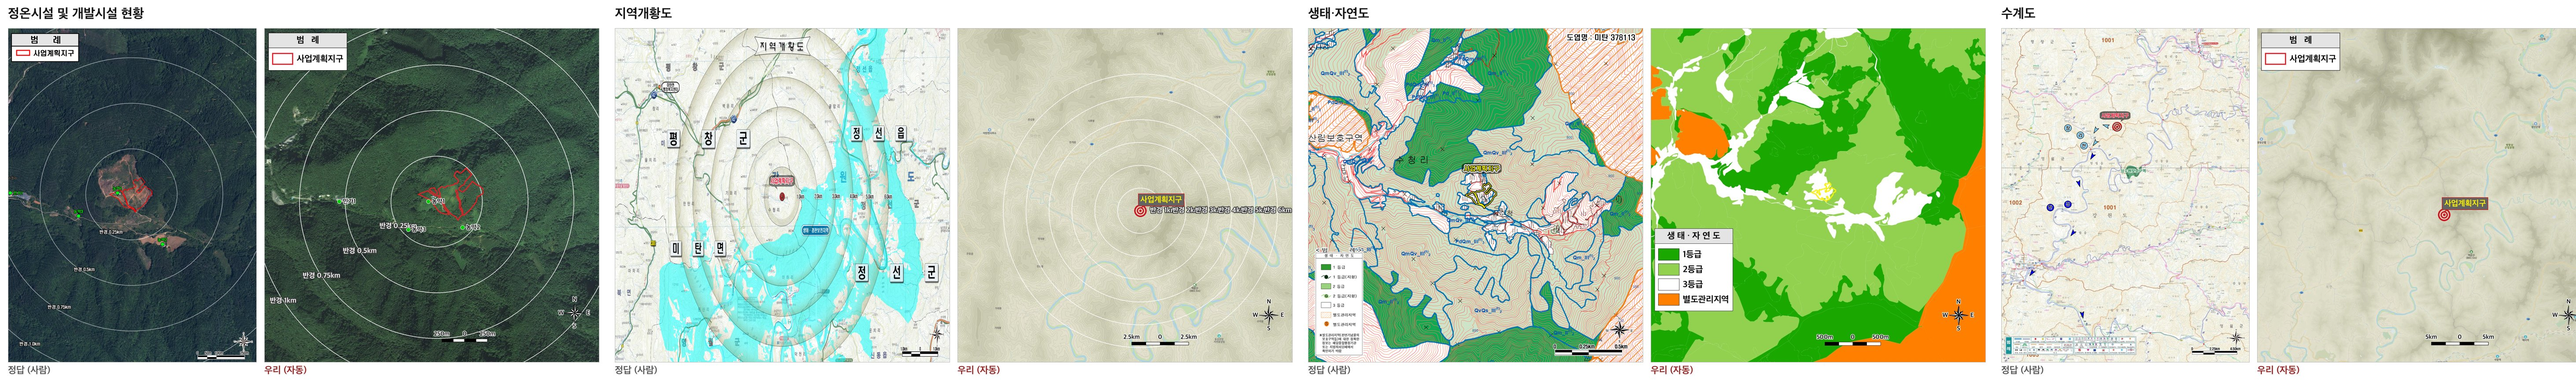
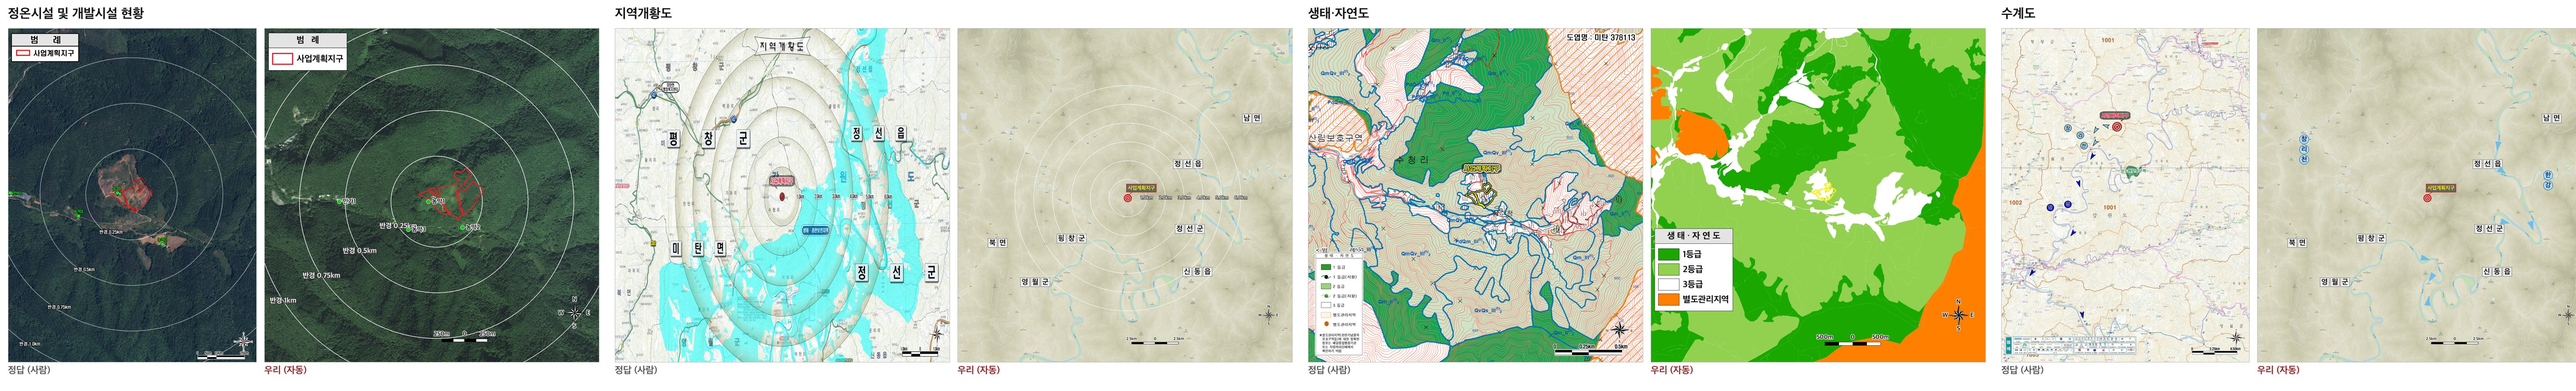
날짜별 작업 이력을 걷어내고 비교 이미지를 최신으로
"2026-08-20 에 풀린 것 — …" 은 날짜별 이력이고, 바로 위 표에 각 삽도의 현재 상태가
이미 있어 중복이기도 했다.

4-5 절도 같은 정리
- 제목의 (2026-08-20) 제거
- "그동안 완전 자동이라 적은 것은 코드가 돈다는 뜻이었지…" →
  "코드가 도는 것과 정답과 같은 것은 다르다" 로. 자기 이력이 아니라 원칙으로 적는다
- 상태 표를 뺐다 — 맨 위 요약표와 겹친다. 이 절은 무엇이 달랐고 왜 그랬는지만 다룬다

4종 비교 이미지가 낡아 있었다 (수계도가 빈 그림, 지역개황도에 행정구역명 없음).
각주로 "대조 시점의 것" 이라 달아 두는 대신 **다시 만들었다** — 문서에 낡은 그림을
두고 설명으로 때우면 다음에 볼 때 또 헷갈린다.

diff --git a/docs/20260819_삽도_자동화.md b/docs/20260819_삽도_자동화.md
@@ -38,10 +38,6 @@
 **지역개황이 만드는 5종 중 — 정답에 근접 2 · 거의 2 · 절반 1.**
 나머지 1종(식생보전등급도)은 다른 파트 산출물이다.
 
-2026-08-20 에 풀린 것 — **위성사진 출처 대체**(약관 문제가 사라졌다) ·
-**사업지 경계 폴리곤**(설계도서가 필요 없었다) · **수계흐름모식도 입력** ·
-**생태·자연도 취득과 등급 판정** · **행정구역명 라벨**.
-
 ---
 
 ## 1. 지역개황의 삽도는 어떻게 구성되나
@@ -595,19 +591,13 @@ python engine/parcels.py cases/…/input/사업개요.txt \
 필지별로 선을 긋지 않고 **한 덩어리로 합쳐 바깥 선만** 그린다. 필지마다 그으면 안쪽에
 격자가 생겨 실제와 달라진다. 기하 라이브러리 없이 마스크 차분으로 합쳤다.
 
-### 4-5. 같은 사업으로 4종을 정답과 맞춰 봤다 ★ (2026-08-20)
+### 4-5. 같은 사업으로 4종을 정답과 맞춰 봤다 ★
 
-그동안 "완전 자동"이라 적은 것은 **코드가 돈다**는 뜻이었지 정답과 같다는 뜻이 아니었다.
-NAS 에서 평창 정답 삽도 4종을 받아 **같은 사업으로 우리 것을 만들어** 대조했다.
+**코드가 도는 것과 정답과 같은 것은 다르다.** NAS 에서 평창 정답 삽도 4종을 받아
+같은 사업으로 우리 것을 만들어 대조했다. 상태는 맨 위 표에 있고, 여기서는
+**무엇이 달랐고 왜 그랬는지**를 적는다.
 
 ![삽도 4종 정답 대비](img/20260820_삽도4종_정답_vs_자동.jpg)
-
-| 삽도 | 결과 | 무엇이 달랐나 |
-|---|---|---|
-| 정온시설 | **근접** | 반경원·경계·초록 마커 위치가 다 맞는다 |
-| 지역개황도 | 구조 일치 | 배경 지명이 흐렸다 → 아래 |
-| 생태·자연도 | 절반 | 정답은 **지형도 위 반투명**이라 등고선·군락기호가 더 있다 |
-| 수계도 | 미완 | 화살표·하천명·구역 채색이 전부 없다 |
 
 **배경이 밋밋했던 진짜 원인은 줌이 아니라 삽도 크기였다.**
 정답 지역개황도가 **4,449px** 인데 우리는 1,792px 로 만들고 L13(8.16m/px)을 썼다.
